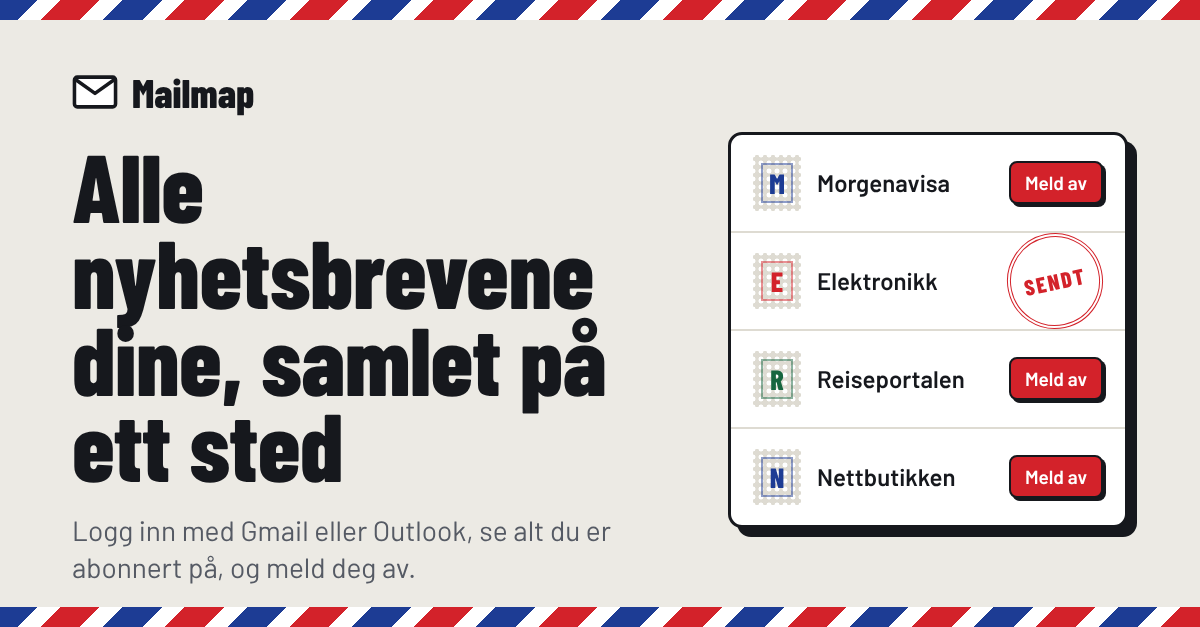
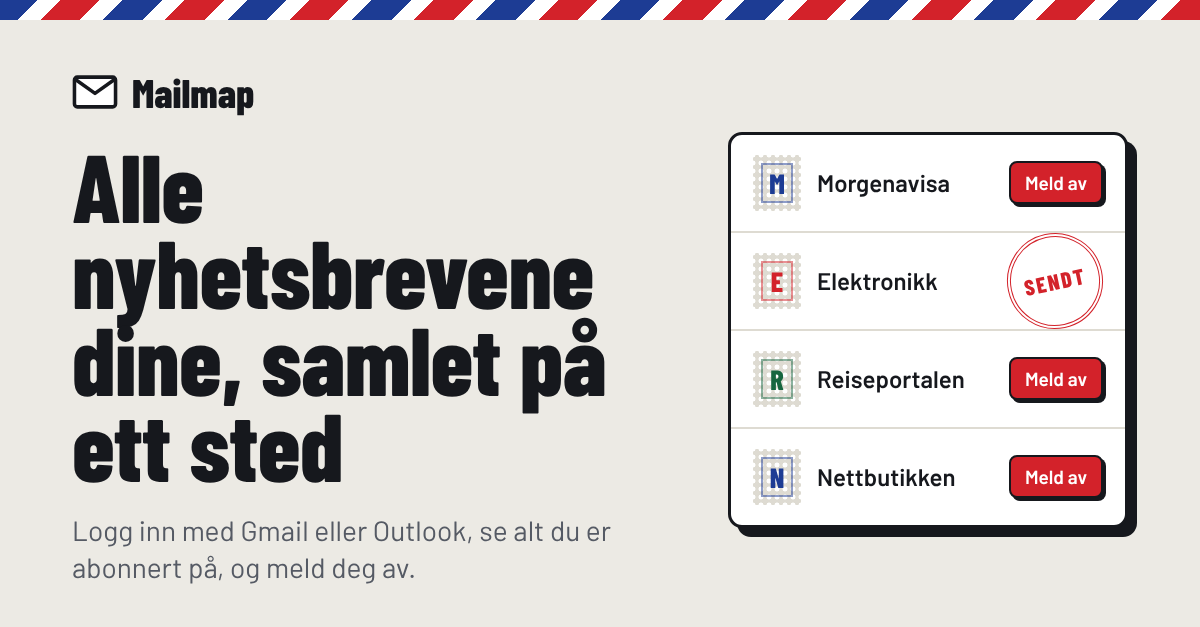
Share image: remove bottom stripe
Claude-Session: https://claude.ai/code/session_01XbGBdyfTHEKzCp5Y8JLQWF

Changed region(s): [[0.0, 0.9697, 1.0, 1.0]]

diff --git a/web/index.html b/web/index.html
@@ -262,7 +262,7 @@ h2{font:800 clamp(32px,7vw,42px)/1 var(--display);margin:0;text-wrap:balance}
 </div>
 <div class="toast" id="toast" role="status"></div>
 
-<script src="config.js?v=266b274f"></script>
-<script src="app.js?v=266b274f"></script>
+<script src="config.js?v=f87fbae8"></script>
+<script src="app.js?v=f87fbae8"></script>
 </body>
 </html>
